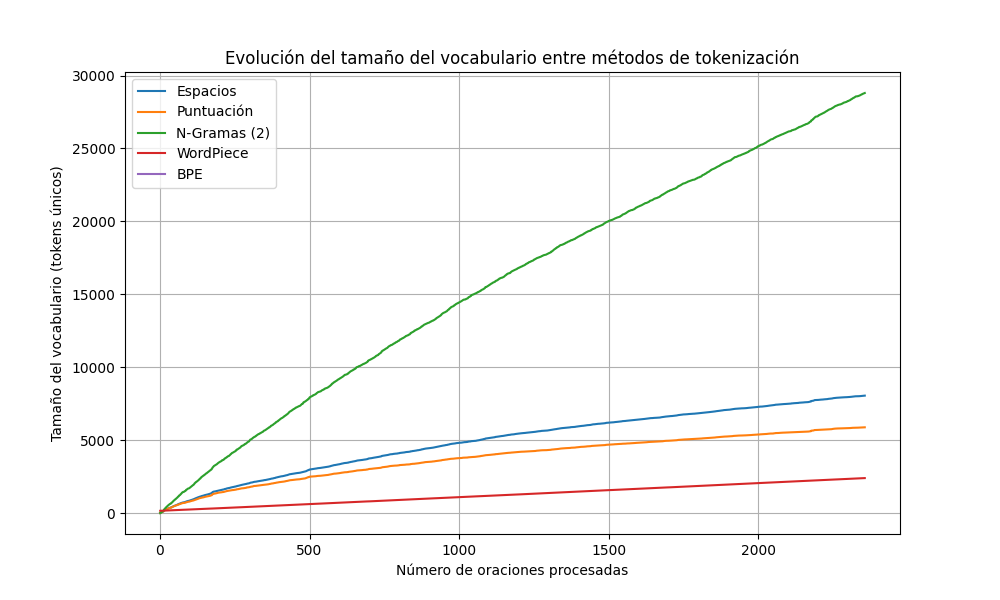
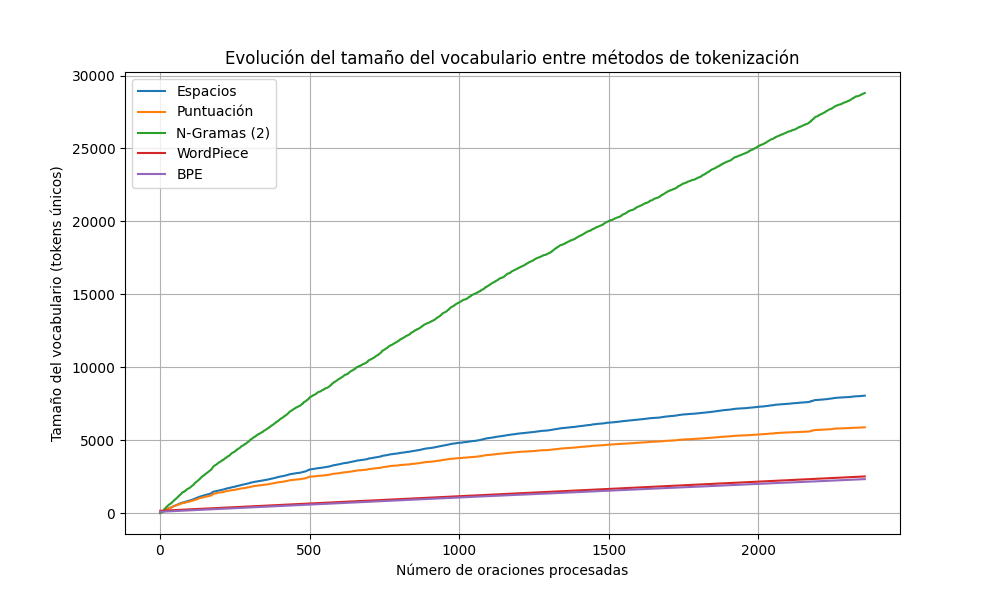
listo señor

Changed region(s): [[0.31, 0.78, 0.868, 0.84], [0.155, 0.84, 0.31, 0.87]]

diff --git a/ej_BPE.py b/ej_BPE.py
@@ -1,50 +1,70 @@
-from collections import defaultdict
-import os
 
 def train_bpe(ruta_archivo, vocab_size=100):
+    from collections import defaultdict
+
     with open(ruta_archivo, "r", encoding="utf-8") as archivo:
         texto = archivo.read()
-    
+
+    # Tokenizar corpus en palabras
     corpus_tokenizado = [line.split() for line in texto.strip().split("\n") if line]
+
+    # Contar la frecuencia de cada palabra en el corpus
     frecuencia = defaultdict(int)
     for oracion in corpus_tokenizado:
         for termino in oracion:
             frecuencia[termino] += 1
-    
+
+    # Inicializar cada palabra como una lista de caracteres
     segmentacion = {palabra: list(palabra) for palabra in frecuencia}
     reglas_fusion = []
-    vocab_size_over_time = [len(set(c for palabra in segmentacion.values() for c in palabra))]
+    vocab_growth = []  
 
-    
-    while len(segmentacion) < vocab_size:
+    while len(vocab_growth) < vocab_size:  
         pares = defaultdict(int)
+
+        # Contar frecuencia de pares de caracteres consecutivos
         for palabra, segm in segmentacion.items():
             for i in range(len(segm) - 1):
                 pares[(segm[i], segm[i + 1])] += frecuencia[palabra]
-        
+
         if not pares:
-            break
-        
+            break  # No hay más pares para fusionar
+
+        # Encontrar el par más frecuente
         par_frecuente = max(pares, key=pares.get)
-        nueva_unidad = "".join(par_frecuente)
+        nueva_unidad = "".join(par_frecuente)  # Fusionar caracteres
+
+        # Guardar la regla de fusión
         reglas_fusion.append((par_frecuente, nueva_unidad))
-        
+
         nueva_segmentacion = {}
+
+        # Actualizar segmentación de palabras
         for palabra, segm in segmentacion.items():
             nueva_seg = []
             i = 0
             while i < len(segm):
                 if i < len(segm) - 1 and (segm[i], segm[i + 1]) == par_frecuente:
                     nueva_seg.append(nueva_unidad)
-                    i += 2
+                    i += 2  # Saltar el par fusionado
                 else:
                     nueva_seg.append(segm[i])
                     i += 1
             nueva_segmentacion[palabra] = nueva_seg
-        
+
         segmentacion = nueva_segmentacion
-    
-    return reglas_fusion, vocab_size_over_time
+        
+
+        vocab_set = set()  # Nuevo conjunto de vocabulario
+        for palabra, segm in segmentacion.items():
+            vocab_set.update(segm)
+            
+        vocab_growth.append(len(vocab_set))
+
+
+    return reglas_fusion, vocab_growth
+
+
 
 def tokenize_bpe(linea, reglas_fusion):
     palabras = linea.split()

diff --git a/main.py b/main.py
@@ -96,15 +96,15 @@ def print_bpe():
 
 
 # Función para comparar la evolución del vocabulario entre métodos de tokenización
-def compare_tokenization_methods():
+def compare_methods():
     max_sentences = None
     
-    # Convertir corpus_majesty a un solo string para train_wordpiece
+    # Convertir corpus_majesty a un solo string para entrenar WordPiece
     corpus_majesty_text = " ".join(corpus_majesty)
+    
+    # Entrenar WordPiece y BPE, obteniendo su evolución
     wordpiece_vocab, wordpiece_vocab_growth = train_wordpiece(corpus_majesty_text, max_vocab_size=3000)
     bpe_rules, bpe_vocab_growth = train_bpe(majesty_path, vocab_size=3000)
-
-    print(wordpiece_vocab)
 
     # Diccionario de métodos de tokenización
     tokenizer_methods = {
@@ -129,9 +129,17 @@ def compare_tokenization_methods():
             vocab_sets[method].update(tokens)
             vocab_growth[method].append(len(vocab_sets[method]))
 
+    print("Evolución BPE:", bpe_vocab_growth[:10])  # Solo los primeros 10 valores
+    print("Evolución WordPiece:", wordpiece_vocab_growth[:10])
+
+
     # Agregar las evoluciones de WordPiece y BPE preentrenadas
-    vocab_growth["WordPiece"] = wordpiece_vocab_growth[:len(sentences)]
-    vocab_growth["BPE"] = bpe_vocab_growth[:len(sentences)]
+    if len(wordpiece_vocab_growth) >= len(sentences):
+        vocab_growth["WordPiece"] = wordpiece_vocab_growth[:len(sentences)]
+        
+    if len(bpe_vocab_growth) >= len(sentences):
+        vocab_growth["BPE"] = bpe_vocab_growth[:len(sentences)]
+
 
     # Graficar todas las evoluciones
     plt.figure(figsize=(10, 6))
@@ -144,6 +152,7 @@ def compare_tokenization_methods():
     plt.legend()
     plt.grid()
     plt.show()
+
 
 
 
@@ -178,7 +187,7 @@ if __name__ == "__main__":
     if args.print_wordpiece:
         print_wordpiece()
     elif args.compare_methods:
-        compare_tokenization_methods()
+        compare_methods()
     elif args.print_test:
         print_test()
     elif args.print_bpe:

diff --git a/ej_wordpiece.py b/ej_wordpiece.py
@@ -40,17 +40,12 @@ def train_wordpiece(corpus, max_vocab_size, min_pair_freq=1):
             print("Detenido temprano: No hay más pares frecuentes.")
             break
         
-        if best_pair[0].startswith("##") or best_pair[1].startswith("##"):
-            new_token = best_pair[0] + best_pair[1].replace("##", "")
+        # Fusionar eliminando ## que no van al principio
+        # Determinar si el nuevo token debe llevar '##'
+        if best_pair[0].startswith("##"):
+            new_token = "##" + best_pair[0].replace("##", "") + best_pair[1].replace("##", "")
         else:
-            new_token = best_pair[0] + best_pair[1]
-
-        if not best_pair[0].startswith("##") and best_pair[1].startswith("##"):
-            new_token = best_pair[0] + best_pair[1]
-
-        if best_pair[0].startswith("##") and not best_pair[1].startswith("##"):
-            new_token = best_pair[0] + "##" + best_pair[1]
-
+            new_token = best_pair[0] + best_pair[1].replace("##", "")
     
         vocab[new_token] = pairs[best_pair]
     
@@ -113,10 +108,4 @@ def tokenize_wordpiece(sentence, vocab):
             tokens.append(" ".join(sub_tokens))
 
     return tokens
-
-"""majesty_path = "materiales-20250207/majesty_speeches.txt"
-with open(majesty_path, "r", encoding="utf-8") as file:
-        corpus_majesty = [line.strip() for line in file.readlines() if line.strip()]
-corpus_majesty_text = " ".join(corpus_majesty)
-vocab = train_wordpiece(corpus_majesty_text,3000,1)"""
 
